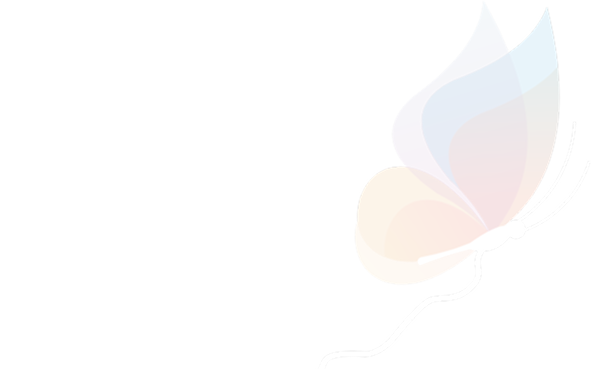
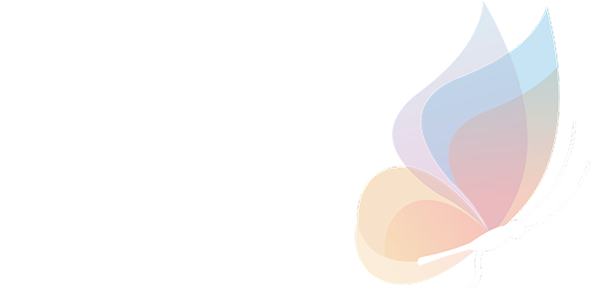
Fixed decoration positioning and added bright hero background image.

Changed region(s): [[0.5787, 0.0311, 0.9442, 0.9965]]

diff --git a/styles.css b/styles.css
@@ -116,7 +116,7 @@ body.in-footer .decoration {
 .decoration__stone {
   position: absolute;
   left: min(4vw, 40px);
-  bottom: min(8vh, 80px);
+  bottom: min(-2vh, 80px);
   width: 20.833vw;
   height: auto;
 }
@@ -299,7 +299,7 @@ body.in-footer .header {
 
 .hero-bg--bright {
   background-color: #08090c;
-  background-image: url('images/hero-bright.jpg');
+  background-image: url('images/hero-bright.png');
   opacity: 0;
   z-index: 0;
   filter: blur(4px);
@@ -376,16 +376,12 @@ body.in-footer .header {
   margin-bottom: var(--space-48);
 }
 
-.hero-title-2 span:first-child {
-  font-size: 4.688vw;
-  font-weight: 300;
+.hero-title-2 span {
   text-transform: uppercase;
+  color: #6a6a6a;
 }
 
-.hero-title-2 span:last-child {
-  font-size: 6.25vw;
-  font-weight: 400;
-}
+
 
 .hero-title span, .hero-title-2 span {
   font-size: 6.25vw;
